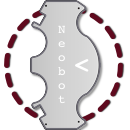
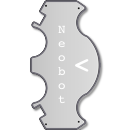
Improves the selection of the robot

diff --git a/Neobot iOS Client/Neobot iOS Client/PXGMapObject.m b/Neobot iOS Client/Neobot iOS Client/PXGMapObject.m
@@ -6,14 +6,31 @@
 //  Copyright (c) 2013 Pixelgames. All rights reserved.
 //
 
+#import <QuartzCore/QuartzCore.h>
 #import "PXGMapObject.h"
 
+@interface PXGMapObject ()
+{
+    int _nbStep;
+    int _currentStep;
+    double _selectionAngleByStep;
+}
+
+@property (strong, nonatomic) UIImageView* imageView;
+@property (strong, nonatomic) CALayer* selectionLayer;
+
+@end
+
 @implementation PXGMapObject
+
 
 - (id)initWithPosition:(PXGRPoint*)position radius:(double)radius andImage:(NSString*)imageName
 {
     if ((self = [super init]))
 	{
+        _nbStep = 50;
+        _selectionAngleByStep = 2.0 * M_PI / (double)_nbStep;
+        
 		self.position = position;
         self.radius = radius;
         self.imageName = imageName;
@@ -22,10 +39,24 @@
         self.selectable = NO;
         self.selected = NO;
         
-        UIImage* image = [UIImage imageNamed:self.imageName];
-        _view = [[UIImageView alloc] initWithImage:image];
-        self.view.contentMode = UIViewContentModeScaleAspectFit;
+        _view = [[UIView alloc] initWithFrame:CGRectMake(0, 0, 100, 100)];
+        //self.view.contentMode = UIViewContentModeScaleAspectFit;
         self.view.userInteractionEnabled = YES;
+        
+        UIImage* image = [UIImage imageNamed:self.imageName];
+
+        self.imageView = [[UIImageView alloc] initWithImage:image];
+        self.imageView.autoresizingMask = UIViewAutoresizingFlexibleLeftMargin | UIViewAutoresizingFlexibleRightMargin | UIViewAutoresizingFlexibleTopMargin | UIViewAutoresizingFlexibleBottomMargin | UIViewAutoresizingFlexibleWidth | UIViewAutoresizingFlexibleHeight;
+        self.imageView.contentMode = UIViewContentModeScaleAspectFit;
+        self.imageView.bounds = self.view.bounds;
+        self.imageView.center = self.view.center;
+        [self.view addSubview:self.imageView];
+        
+        self.selectionLayer = [[CALayer alloc] init];
+        self.selectionLayer.bounds = self.view.bounds;
+        self.selectionLayer.position = self.view.layer.position;
+        self.selectionLayer.delegate = self;
+        [self.view.layer insertSublayer:self.selectionLayer below:self.imageView.layer];
 	}
     
     return self;
@@ -43,10 +74,50 @@
             else
                 image = [UIImage imageNamed:self.imageName];
             
-            [self.view setImage:image];
+            [self.imageView setImage:image];
         }
         
+        //_currentStep = 0;
         _selected = selected;
+        [self.selectionLayer setNeedsDisplay];
+    }
+}
+
+- (void)drawLayer:(CALayer *)layer inContext:(CGContextRef)ctx
+{
+    if (self.selected)
+    {
+        CGContextSetStrokeColorWithColor(ctx,[UIColor redColor].CGColor);
+        CGContextSetLineWidth(ctx, 5);
+        CGContextSetLineJoin(ctx, kCGLineJoinRound);
+        CGFloat dashLengths[2] = {10, 10};
+        CGContextSetLineDash(ctx, 0, dashLengths, 2);
+        
+        CGContextBeginPath(ctx);
+        CGContextAddEllipseInRect(ctx, CGRectInset(layer.bounds, 10, 10));
+        
+        CGContextStrokePath(ctx);
+        
+        CGContextSetFillColorWithColor(ctx,[UIColor colorWithRed:0.7 green:0.7 blue:0.7 alpha:0.6].CGColor);
+        CGContextBeginPath(ctx);
+        CGContextAddEllipseInRect(ctx, CGRectInset(layer.bounds, 10, 10));
+        
+        CGContextFillPath(ctx);
+    }
+}
+
+- (void)nextStep
+{
+    if (self.selected)
+    {
+        ++_currentStep;
+        if (_currentStep >= _nbStep)
+        {
+            _currentStep = 0;
+        }
+    
+    
+        [self.selectionLayer setAffineTransform:CGAffineTransformMakeRotation(_selectionAngleByStep * (double)_currentStep)];
     }
 }
 

diff --git a/Neobot iOS Client/Neobot iOS Client/PXGMapViewController.m b/Neobot iOS Client/Neobot iOS Client/PXGMapViewController.m
@@ -15,6 +15,7 @@
 {
     BOOL _panEnabled;
     NSTimer* _followFingerPanTimer;
+    NSTimer* _sceneUpdateTimer;
 }
 
 @property (strong, nonatomic) NSMutableArray* objects;
@@ -40,6 +41,8 @@
         self.objects = [NSMutableArray array];
         self.robotControlEnabled = NO;
         _panEnabled = YES;
+        
+        _sceneUpdateTimer = [NSTimer scheduledTimerWithTimeInterval:0.1 target:self selector:@selector(updateScene:) userInfo:nil repeats:YES];
     }
     return self;
 }
@@ -136,13 +139,21 @@
     return [[PXGRPoint alloc] initWithX:x y:y theta:0.0];
 }
 
+-(void)updateScene:(NSTimer*)timer
+{
+    for (PXGMapObject* object in self.objects)
+    {
+        [object nextStep];
+    }
+}
+
 #pragma mark General objects management
 
 - (void)addMapObject:(PXGMapObject*)object
 {
     [self.objects addObject:object];
     
-    UIImageView* view = object.view;
+    UIView* view = object.view;
     self.view.center = CGPointMake(-1000, -1000); //Move it outside the scene
     
     [self updateViewBounds:view fromObject:object];

diff --git a/Neobot iOS Client/Neobot iOS Client/PXGMapObject.h b/Neobot iOS Client/Neobot iOS Client/PXGMapObject.h
@@ -19,9 +19,12 @@
 @property (nonatomic)         BOOL       selectable;
 @property (nonatomic)         BOOL       selected;
 
-@property (strong, nonatomic, readonly)  UIImageView*    view;
+@property (strong, nonatomic, readonly)  UIView*    view;
 
 @property (strong, nonatomic) NSString*  imageName;
 @property (strong, nonatomic) NSString*  selectedImageName;
+
+
+- (void)nextStep;
 
 @end
